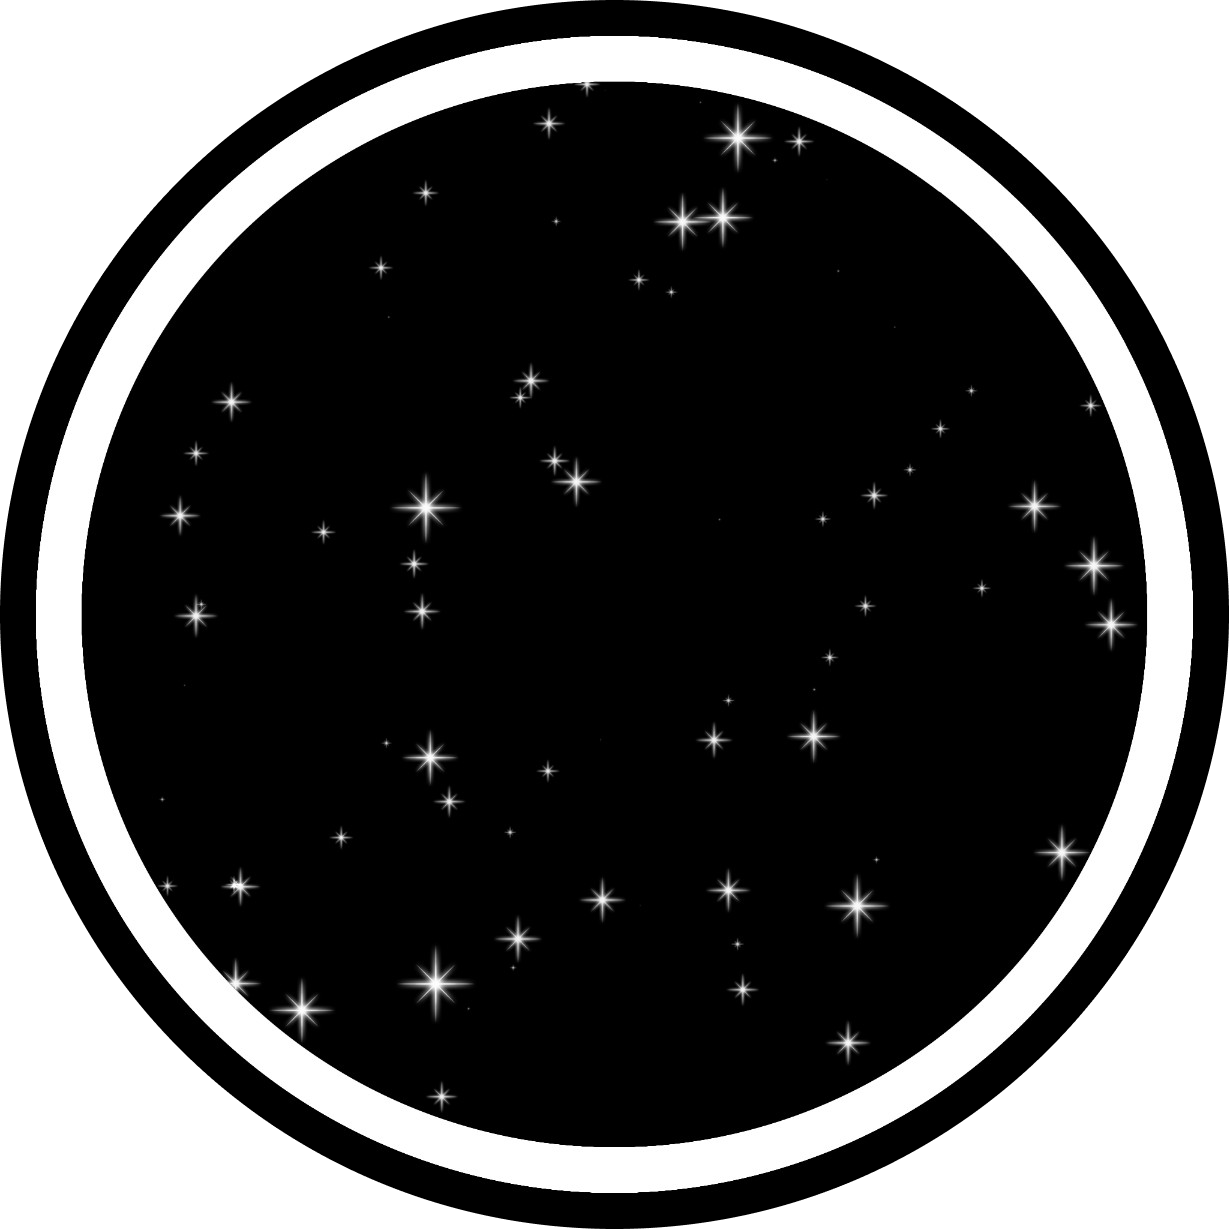
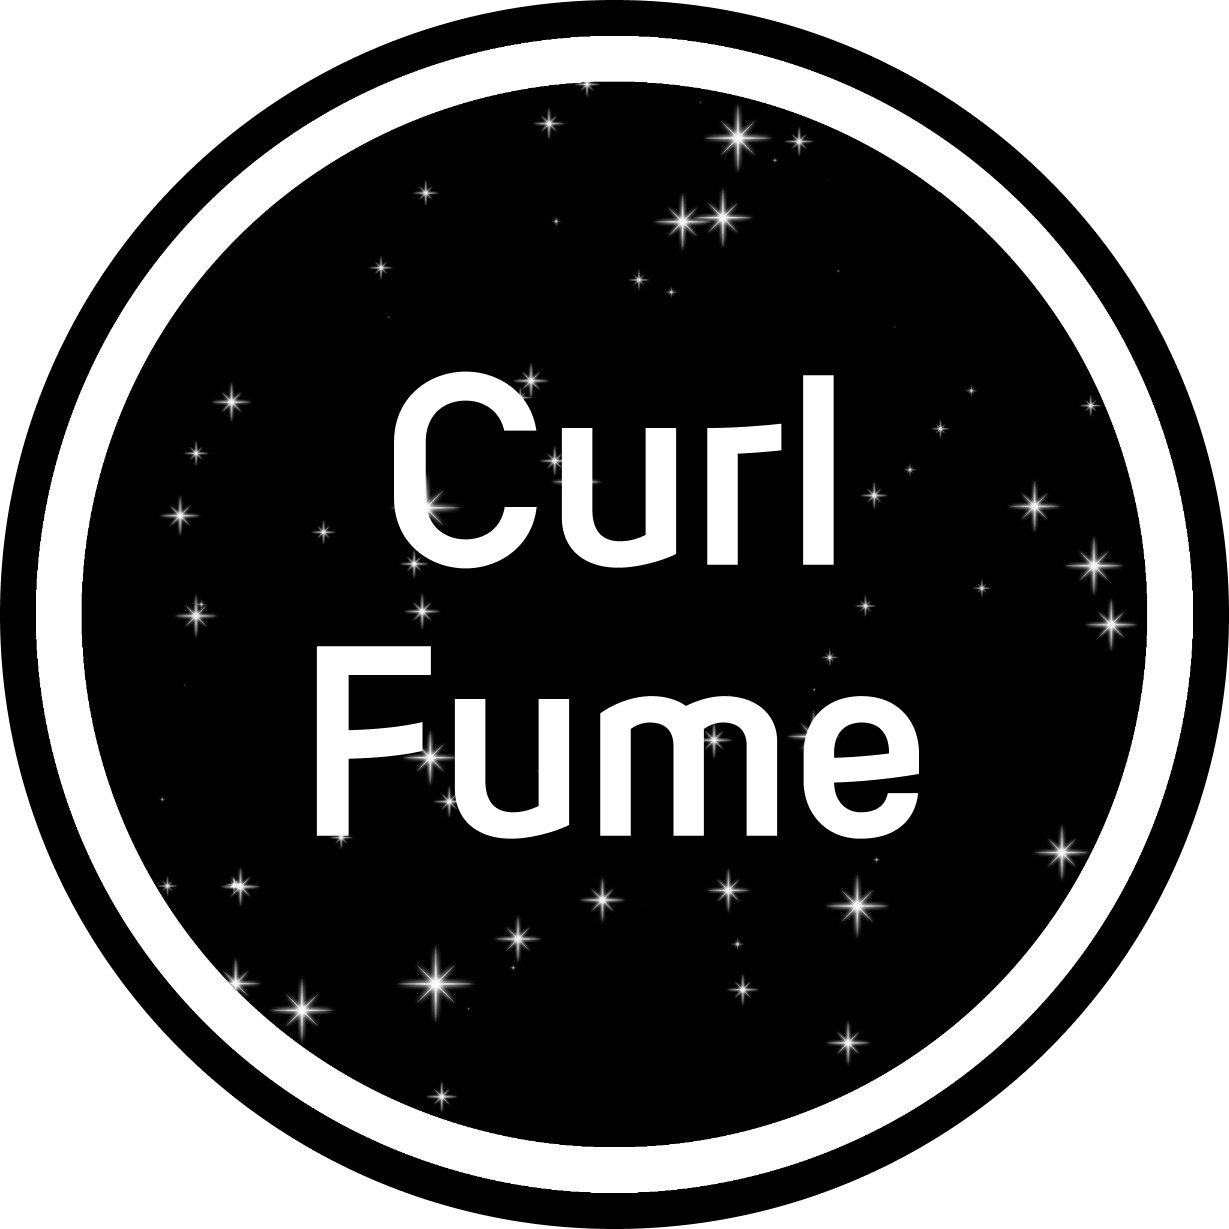
:lipstick: 시작화면 로고 크기 조정

Changed region(s): [[0.2474, 0.5256, 0.773, 0.6802], [0.3092, 0.2783, 0.6802, 0.4638]]

diff --git a/curlfume-clinet/src/css/StartScreen/StartScreen.scss b/curlfume-clinet/src/css/StartScreen/StartScreen.scss
@@ -28,22 +28,10 @@
   flex-direction: column;
 
   img {
-    width: 30em;
-    height: 30em;
+    width: 27em;
+    height: 27em;
 
     margin: auto;
-  }
-
-  .bgImgText {
-    text-align: center;
-    color: #fff;
-    font-size: 4em;
-
-    margin: auto;
-    position: absolute;
-    top: 50%;
-    left: 50%;
-    transform: translate(-48%, -85%);
   }
 
   .bgImgBtn {

diff --git a/curlfume-clinet/src/components/StartScreen/StartScreen.jsx b/curlfume-clinet/src/components/StartScreen/StartScreen.jsx
@@ -16,9 +16,6 @@ const StartScreen = () => {
     <>
       <div className="bgImg">
         <img src={StartScreenImg} />
-        <div className="bgImgText">
-          <p>Curl Fume</p>
-        </div>
         <div className="bgImgBtn">
           <button onClick={toNextScreen}>시작하기</button>
         </div>
